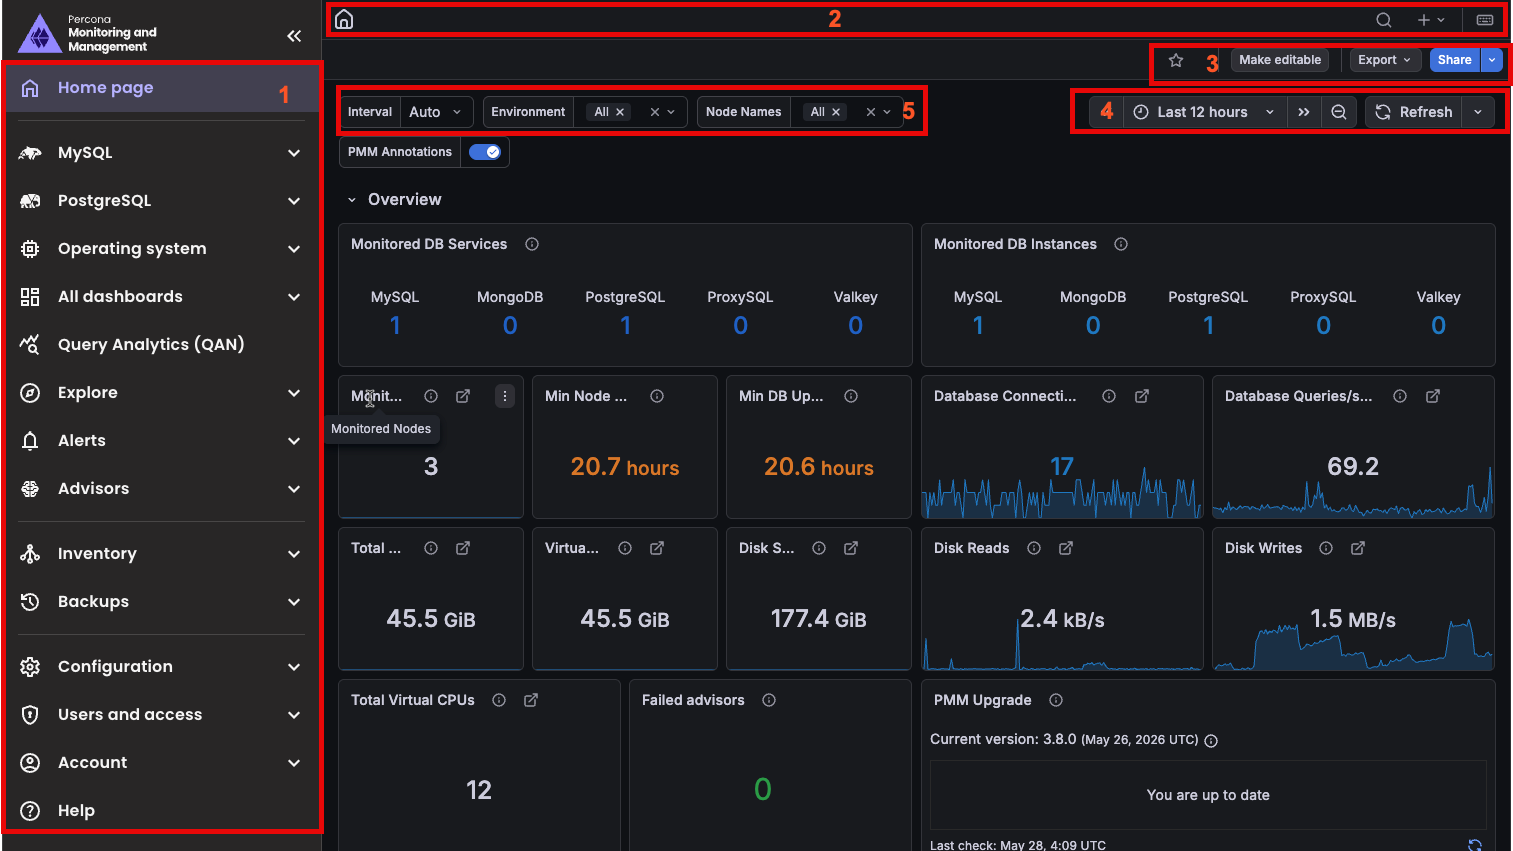
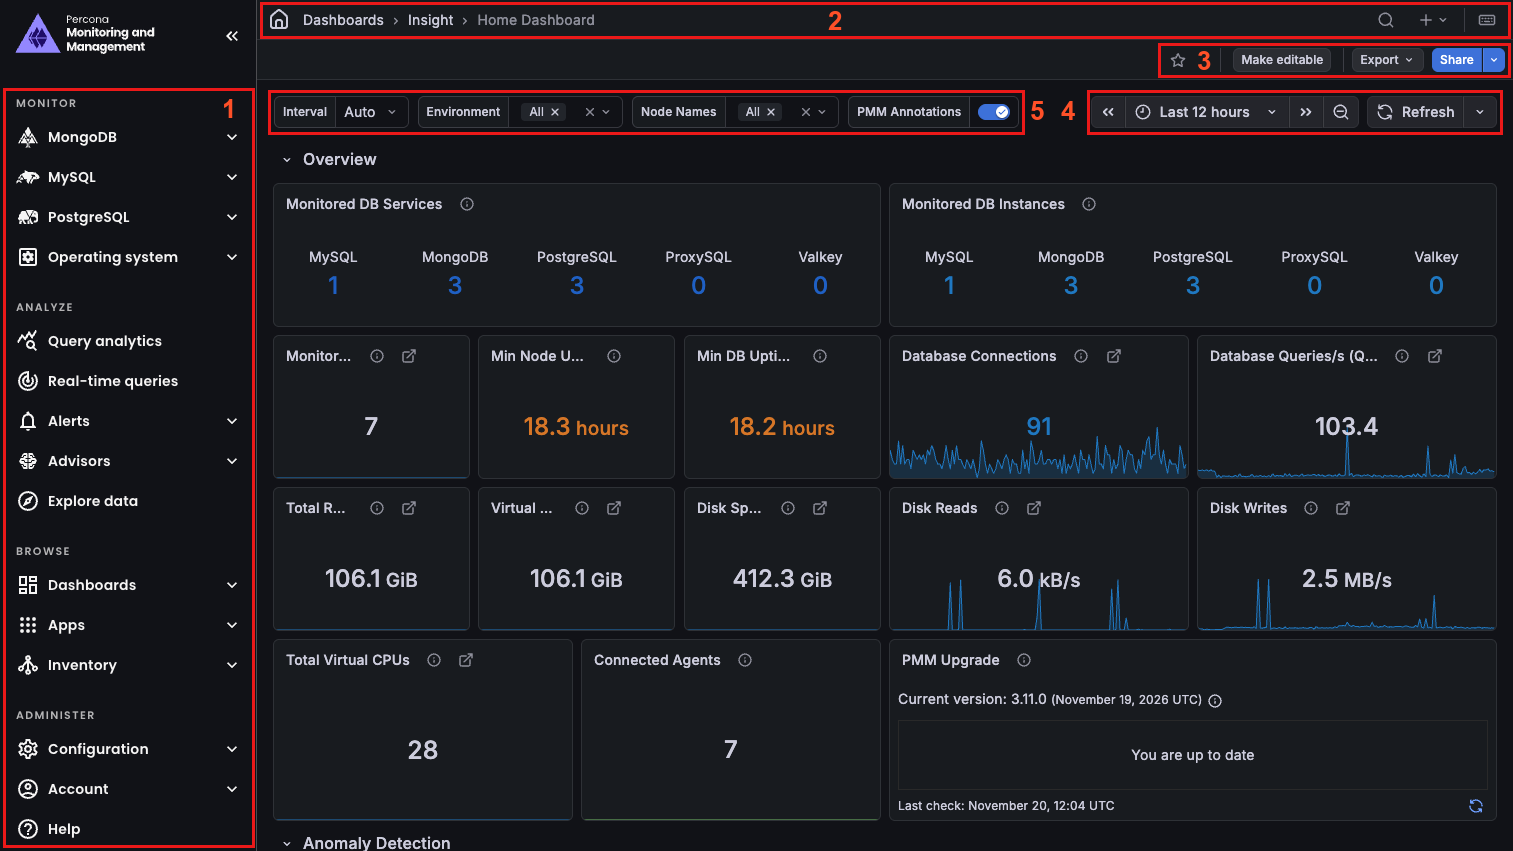
content review

diff --git a/ui/apps/pmm/src/contexts/tour/steps/product.messages.ts b/ui/apps/pmm/src/contexts/tour/steps/product.messages.ts
@@ -7,14 +7,14 @@ export const Messages = {
       'Built on Grafana, these dashboards can be customized, expanded, or integrated with existing ones to fit your unique monitoring needs.',
   },
   queryAnalytics: {
-    title: 'Query Analytics (QAN) dashboard',
+    title: 'Query analytics',
     insights:
       'Shows detailed insights into query execution, including query count and execution time.',
     optimize:
       'It enables you to analyze database queries over time, optimize performance, and quickly identify and resolve issues at their source.',
   },
   explore: {
-    title: 'Explore',
+    title: 'Explore data',
     useCase:
       'Use it when you want to explore your graph and table data but do not want to create a dashboard. This way you can focus only on the query.',
   },
@@ -35,7 +35,7 @@ export const Messages = {
   management: {
     title: 'Management: Inventory & Backups',
     inventory:
-      'Use the Inventory section to manage your monitored services, and the Backups pages under Apps to create Point-in-Time-Recoverable backups of your MySQL and MongoDB databases.',
+      'Use Inventory to manage your monitored services, and the backup pages under Apps to create point-in-time recoverable backups of your MySQL and MongoDB databases.',
     readMore: 'Read more about Backups',
   },
   configurations: {
@@ -43,7 +43,7 @@ export const Messages = {
     settings:
       "Manage PMM's advanced settings to customize metrics collection and control feature availability, including features in Technical Preview.",
     access:
-      'Control team access and permissions through Users and access in Configuration, or modify your personal preferences and password in your profile settings.',
+      'Manage users, teams and access roles in Configuration, or change your preferences and password in your profile settings.',
     readMore: "Learn more about PMM's configurations",
   },
   account: {

diff --git a/ui/apps/pmm/src/pages/settings/Settings.messages.ts b/ui/apps/pmm/src/pages/settings/Settings.messages.ts
@@ -44,7 +44,7 @@ export const Messages = {
     accessControlLink: 'https://per.co.na/roles_permissions',
     openManagerLabel: 'Operations for MongoDB',
     openManagerTooltip:
-      'Fleet management for Percona Server for MongoDB: the health of every MongoDB cluster PMM monitors, the nodes behind them, and provisioning. Appears under Apps in the menu. Turning it off hides those pages and stops the periodic collection; nothing already collected is deleted.',
+      'Fleet management for Percona Server for MongoDB: the health of every MongoDB cluster PMM monitors, the nodes behind them, and provisioning. Appears under Apps in the menu. Turning it off hides those pages and stops the periodic collection, but keeps the data already collected.',
     openManagerRequiresExtensions:
       'Needs PMM Extensions, which is not enabled on this server. Enable it first, then turn on Operations for MongoDB.',
     // Said instead of the generic "Settings updated" the first time it is turned

diff --git a/ui/apps/pmm/src/contexts/navigation/navigation.tree.ts b/ui/apps/pmm/src/contexts/navigation/navigation.tree.ts
@@ -46,10 +46,10 @@ import {
 // The sidebar, read top to bottom (see PMM-15353).
 
 export const NAV_SECTIONS = {
-  technologies: section('technologies', 'Technologies'),
-  analysis: section('analysis', 'Analysis and alerting'),
+  technologies: section('technologies', 'Monitor'),
+  analysis: section('analysis', 'Analyze'),
   browse: section('browse', 'Browse'),
-  administration: section('administration', 'Administration'),
+  administration: section('administration', 'Administer'),
 };
 
 // A copy of the technology's menu with its Grafana folder of other dashboards

diff --git a/documentation/docs/reference/ui/ui_components.md b/documentation/docs/reference/ui/ui_components.md
@@ -14,28 +14,28 @@ Here's how the UI is laid out, and what the controls do:
 
 ## 1. Main menu
 
-The main menu groups its entries under four sections: **Technologies**, **Analysis and alerting**, **Browse** and **Administration**. **Account** and **Help** follow the last section.
+The main menu groups its entries under four sections: **Monitor**, **Analyze**, **Browse** and **Administer**. **Account** and **Help** follow the last section.
 
-Some entries appear only when they apply. A database appears under **Technologies** only when PMM monitors at least one service of that type, and **PMM HA** appears only when PMM runs as a High Availability cluster. Your role and the PMM settings decide which other entries you see.
+Some entries appear only when they apply. A database appears under **Monitor** only when PMM monitors at least one service of that type, and **PMM HA** appears only when PMM runs as a High Availability cluster. Your role and the PMM settings decide which other entries you see.
 
 | Icon | Name | Section | What you can do |
 |:----:|------|---------|-----------------|
-| :simple-mongodb: | MongoDB | Technologies | View dashboards for MongoDB performance monitoring. |
-| :simple-mysql: | MySQL | Technologies | View specialized dashboards for MySQL database performance monitoring. |
-| :simple-postgresql: | PostgreSQL | Technologies | Access PostgreSQL-specific monitoring dashboards and metrics. |
-| :material-database: | Valkey | Technologies | View dashboards for Valkey and Redis performance monitoring. |
-| :material-monitor-dashboard: | Operating system | Technologies | Monitor server-level metrics including CPU, memory, disk, and network performance. |
-| :material-chart-timeline-variant: | Query analytics | Analysis and alerting | Analyze database queries over time, identify slow queries, optimize performance, and troubleshoot issues. |
-| :material-radar: | Real-time queries | Analysis and alerting | Watch the operations that run on your MongoDB services right now. See [Real-time Query Analytics](../../use/qan/QAN-realtime-analytics.md). |
-| :material-bell-outline: | Alerts | Analysis and alerting | Create and manage [alerts](../../alert/index.md) that notify you when metrics exceed thresholds. |
-| :material-earth: | Advisors | Analysis and alerting | Run health assessment checks on your databases and view recommendations for improving performance. |
-| :material-compass-outline: | Explore data | Analysis and alerting | Investigate metrics without creating dashboards, for example with custom [PromQL](https://prometheus.io/docs/prometheus/latest/querying/basics/) queries. |
-| :material-toolbox-outline: | Diagnostics | Analysis and alerting | Run diagnostic scripts on your database hosts and send the results to your Percona Support case. See [Support diagnostics](../../apps/support-diagnostics.md). |
+| :simple-mongodb: | MongoDB | Monitor | View dashboards for MongoDB performance monitoring. |
+| :simple-mysql: | MySQL | Monitor | View specialized dashboards for MySQL database performance monitoring. |
+| :simple-postgresql: | PostgreSQL | Monitor | Access PostgreSQL-specific monitoring dashboards and metrics. |
+| :material-database: | Valkey | Monitor | View dashboards for Valkey and Redis performance monitoring. |
+| :material-monitor-dashboard: | Operating system | Monitor | Monitor server-level metrics including CPU, memory, disk, and network performance. |
+| :material-chart-timeline-variant: | Query analytics | Analyze | Analyze database queries over time, identify slow queries, optimize performance, and troubleshoot issues. |
+| :material-radar: | Real-time queries | Analyze | Watch the operations that run on your MongoDB services right now. See [Real-time Query Analytics](../../use/qan/QAN-realtime-analytics.md). |
+| :material-bell-outline: | Alerts | Analyze | Create and manage [alerts](../../alert/index.md) that notify you when metrics exceed thresholds. |
+| :material-earth: | Advisors | Analyze | Run health assessment checks on your databases and view recommendations for improving performance. |
+| :material-compass-outline: | Explore data | Analyze | Investigate metrics without creating dashboards, for example with custom [PromQL](https://prometheus.io/docs/prometheus/latest/querying/basics/) queries. |
+| :material-toolbox-outline: | Diagnostics | Analyze | Run diagnostic scripts on your database hosts and send the results to your Percona Support case. See [Support diagnostics](../../apps/support-diagnostics.md). |
 | :material-view-grid-outline: | Dashboards | Browse | Browse all dashboards, create [folders](../../use/dashboards-panels/manage-dashboards/create-folders.md), import dashboards, create playlists, and manage snapshots. |
 | :material-apps: | Apps | Browse | Open [Operations for MongoDB](../../use/mongodb-operations.md) and [MySQL Backups](../../apps/mysql-backup.md), and manage your [database backups](../../backup/index.md) and storage locations. |
 | :material-flask-outline: | Inventory | Browse | View and manage all monitored nodes, services, and agents registered in PMM. Check database and agent status, organize services by clusters, and add or remove monitored instances. |
-| :material-server-network: | PMM HA | Administration | Check the health of your PMM High Availability cluster. |
-| :material-cog-outline: | Configuration | Administration | Configure PMM settings, check for updates, and manage organizations, users, teams, service accounts, and access roles. |
+| :material-server-network: | PMM HA | Administer | Check the health of your PMM High Availability cluster. |
+| :material-cog-outline: | Configuration | Administer | Configure PMM settings, check for updates, and manage organizations, users, teams, service accounts, and access roles. |
 | :material-account-circle-outline: | Account | | Manage your user profile settings, change your password, set notification preferences, and configure your personal PMM experience. |
 | :material-help-circle-outline: | Help | | Access PMM documentation, community forums, and support resources. Export diagnostic logs for troubleshooting and view version information. |
 

diff --git a/documentation/docs/release-notes/next.md b/documentation/docs/release-notes/next.md
@@ -62,6 +62,24 @@ After you upgrade to PMM 3.11.0, you will see fewer version checks in **Advisors
     If you turned off one of these checks, turn off its replacement instead. For example, if you turned off `mongodb_EOL` to stop end-of-life findings for a MongoDB version that you plan to keep, turn off the **MongoDB version check**.
 - `mongodb_cve_version` and `postgresql_cve_check` listed specific vulnerabilities (CVEs), but their lists were no longer kept up to date. Instead, when your version is missing security fixes, all three version checks tell you and link to the vendor's security page, where you can see which vulnerabilities affect your version.
 
+### Shorter main menu, grouped by task
+
+Finding your way around PMM is now quicker, thanks to three changes to the main menu:
+
+- **New task groups**: entries are grouped under **Monitor**, **Analyze**, **Browse** and **Administer**, so the menu is shorter and you find what you need faster.
+- **Panels in the collapsed menu**: when you collapse the menu to icons to give your dashboards more room, click an icon to open its pages in a panel next to it, without expanding the menu first.
+- **Clearer location**: the menu highlights the page you're on and marks the group it belongs to, so you can always see where you are.
+
+| New task groups | Panels in the collapsed menu | Clearer location |
+|:---:|:---:|:---:|
+| ![Main menu grouped under Monitor, Analyze, Browse and Administer](../images/PMM_main_menu.png) | ![Collapsed main menu with the Apps pages open in a panel next to it](../images/PMM_main_menu_collapsed.png) | ![Main menu with the Insights page highlighted and its Advisors group marked](../images/PMM_main_menu_current_page.png) |
+
+Some entries have also moved or been renamed. For example, **Real-time queries** now has its own entry, and backups and **Operations for MongoDB** are under **Apps**. 
+
+To go back to the home dashboard, click the PMM logo. 
+
+As before, you see only the entries that your role and PMM settings allow. [Find where each entry is now](../reference/ui/ui_components.md#1-main-menu).
+
 ### Inventory page now in native PMM UI
 
 PMM has used [its own navigation](3.6.0.md#new-native-pmm-navigation-and-revamped-user-interface) instead of Grafana's menus since 3.6.0, and its pages are gradually moving from Grafana to native PMM UI. [**Inventory**](../use/dashboard-inventory.md) now joins [**Updates**](3.0.0.md#new-upgrade-ui), **Help**, [**Real-Time Analytics**](3.7.0.md#real-time-query-analytics-rta-for-mongodb), [**Settings**](3.8.0.md#settings-page-now-in-native-pmm-ui) and [**Alerts > Status**](3.9.0.md#alert-status-page-view-alerts-by-node-or-service), which already run there.
@@ -99,7 +117,7 @@ To find the affected endpoints and update your automation, [check the PMM API re
 
 ## 📈 Improvements
 
-- [PMM-15909](https://perconadev.atlassian.net/browse/PMM-15909): The main menu now groups its entries under **Technologies**, **Analysis and alerting**, **Browse** and **Administration**, and lists only the databases that PMM monitors. **Real-time queries** has its own entry, users and access roles are under **Configuration**, and backups and **Operations for MongoDB** are under **Apps**. For the full list, see [UI components](../reference/ui/ui_components.md#1-main-menu).
+- [PMM-15909](https://perconadev.atlassian.net/browse/PMM-15909): The main menu is now shorter and grouped into sections, and some entries have moved. [Find out where they are now](#shorter-main-menu-grouped-by-task).
 - [PMM-14023](https://perconadev.atlassian.net/browse/PMM-14023): Users with basic authentication can no longer set weak passwords. New and changed passwords need at least 12 characters, with uppercase and lowercase letters, a digit and a symbol. Existing passwords keep working until you change them. If your scripts create users or change passwords, for example with `change-admin-password`, [update them to use passwords that meet the requirements](../admin/manage-users/add_users.md#password-requirements).
 - [PMM-15239](https://perconadev.atlassian.net/browse/PMM-15239): The **Alert Status** page now groups alert severities into four bands: **Critical**, **Error**, **Warning** and **Info**. Each band has its own icon and label, so you can tell severities apart without relying on color. The **Severity** filter and sort work by band, and the alert details show the original level, for example **Reported as Emergency**. Alert labels stay the same. For how levels map to bands, see [Alert rules](../alert/alert_rules.md).
 - [PMM-15805](https://perconadev.atlassian.net/browse/PMM-15805): The **Services** tab on **Apps > Operations for MongoDB > Fleet** now shows why a service is failing. The **Collected** column shows the reason, for example **Database unreachable**, and the service details show the full error, what to do about it, and a link to the scan that failed. A **Down** service whose `mongod` or `mongos` wasn't running at its last scan shows **not running**. The **Clusters** tab now warns when scan results can't be read. For details, see [Operations for MongoDB](../use/mongodb-operations.md#scans).

diff --git a/documentation/docs/install-pmm/install-pmm-client/connect-database/valkey-redis.md b/documentation/docs/install-pmm/install-pmm-client/connect-database/valkey-redis.md
@@ -251,7 +251,7 @@ Once the service is registered, check that its metrics are reaching PMM and show
 
 1. Open the **Home** dashboard and verify your Valkey/Redis service appears in the **Monitored DB Services** and **Monitored DB Instances** panels.
 
-2. Navigate to the **Valkey/Redis** dashboards from the left menu. PMM provides 10 dedicated dashboards:
+2. Open the **Valkey** dashboards from the main menu. PMM provides 10 dedicated dashboards:
 
     - **[Clients](../../../reference/dashboards/dashboard-valkey-redis-clients.md)**: Monitor client connections and blocked clients
     - **[Cluster Details](../../../reference/dashboards/dashboard-valkey-redis-cluster-details.md)**: Track cluster topology and replication health
@@ -304,7 +304,7 @@ If you need to remove a Valkey or Redis service from monitoring:
 
 After successfully connecting your Valkey or Redis instance to PMM:
 
-- Access the [10 Valkey/Redis dashboards](../../../use/dashboards-panels/index.md#available-dashboards) from the left menu to track performance, memory usage, replication, and slow queries.
+- Access the [10 Valkey/Redis dashboards](../../../use/dashboards-panels/index.md#available-dashboards) from the main menu to track performance, memory usage, replication, and slow queries.
 - [Configure alerts](../../../alert/index.md) for critical metrics like memory usage, replication lag, and slow command execution.
 - Use [PMM Inventory](../../../use/dashboard-inventory.md) to view and manage all monitored instances.
 - [Valkey official documentation](https://valkey.io/docs/)

diff --git a/documentation/docs/apps/support-diagnostics.md b/documentation/docs/apps/support-diagnostics.md
@@ -5,7 +5,7 @@
 
 Support diagnostics runs targeted diagnostic scripts on your database hosts and sends the results directly to your Percona support case in ServiceNow, without SSH access or manual file uploads.
 
-It is available as **Diagnostics** in the **Analysis and alerting** section of the sidebar, and is part of PMM's growing set of [database management apps](index.md).
+It is available as **Diagnostics** in the **Analyze** section of the main menu, and is part of PMM's growing set of [database management apps](index.md).
 
 ## When to use Support diagnostics vs PMM Dump
 

diff --git a/documentation/docs/apps/deploy-pmm-extensions.md b/documentation/docs/apps/deploy-pmm-extensions.md
@@ -249,7 +249,7 @@ After the containers start, confirm that PMM Extensions is running and integrate
     curl -sk -o /dev/null -w "%{http_code}\n" https://<PMM_SERVER_ADDRESS>/extensions/health
     ```
 
-3. Open PMM and check that the sidebar lists **MySQL Backups** under **Apps** and **Diagnostics** under **Analysis and alerting**.
+3. Open PMM and check that the sidebar lists **MySQL Backups** under **Apps** and **Diagnostics** under **Analyze**.
 
 ## Back up the PMM Extensions state volume
 

diff --git a/documentation/docs/backup/index.md b/documentation/docs/backup/index.md
@@ -13,7 +13,7 @@ For MySQL, use [MySQL Backups](../apps/mysql-backup.md) under **Apps > MySQL Bac
 
 ## MongoDB backups
 
-Enable the **Backup Management** option in PMM's Advanced Settings to activate the **Backup** page from where you can:
+Enable the **Backup Management** option in PMM's Advanced Settings to show the backup pages under **Apps** in the main menu, from where you can:
 
 - Create and restore MongoDB backups
 - Automate backup scheduling

diff --git a/documentation/docs/configure-pmm/advanced_settings.md b/documentation/docs/configure-pmm/advanced_settings.md
@@ -70,7 +70,7 @@ You'll see queries related to PMM's inventory, settings, Advisor checks, alerts,
 
 ## Backup Management
 
-Enables [Backup Management](../backup/index.md) option and reveals the **Backup** page from where you can:
+Enables [Backup Management](../backup/index.md) option and shows the backup pages under **Apps** in the main menu, from where you can:
 
 - create and restore MongoDB and MySQL backups
 - automate backup scheduling

diff --git a/documentation/docs/alert/alert_rules.md b/documentation/docs/alert/alert_rules.md
@@ -133,7 +133,7 @@ For example, to check the CPU usage, Go to **Explore data** and run the query ex
 ```
 ![!](../images/alerting-sample-query.png)
 
-Note that to paste the query above, **Explore** must be in `Code` mode, and not in `Builder` mode.
+Note that to paste the query above, **Explore data** must be in `Code` mode, and not in `Builder` mode.
 
 ### Add an alert rule based on a template
 

diff --git a/documentation/docs/admin/security/index.md b/documentation/docs/admin/security/index.md
@@ -24,7 +24,7 @@ To add the PostgreSQL datasource:
 3. Find and open the **Postgres** plugin.
 4. Select **Add new datasource**.
 5. Configure the connection parameters and click **Save & test**.
-6. If the test is successful, you can start using the datasource from the **Explore** page.
+6. If the test is successful, you can start using the datasource from the **Explore data** page.
 
 !!! note
 
